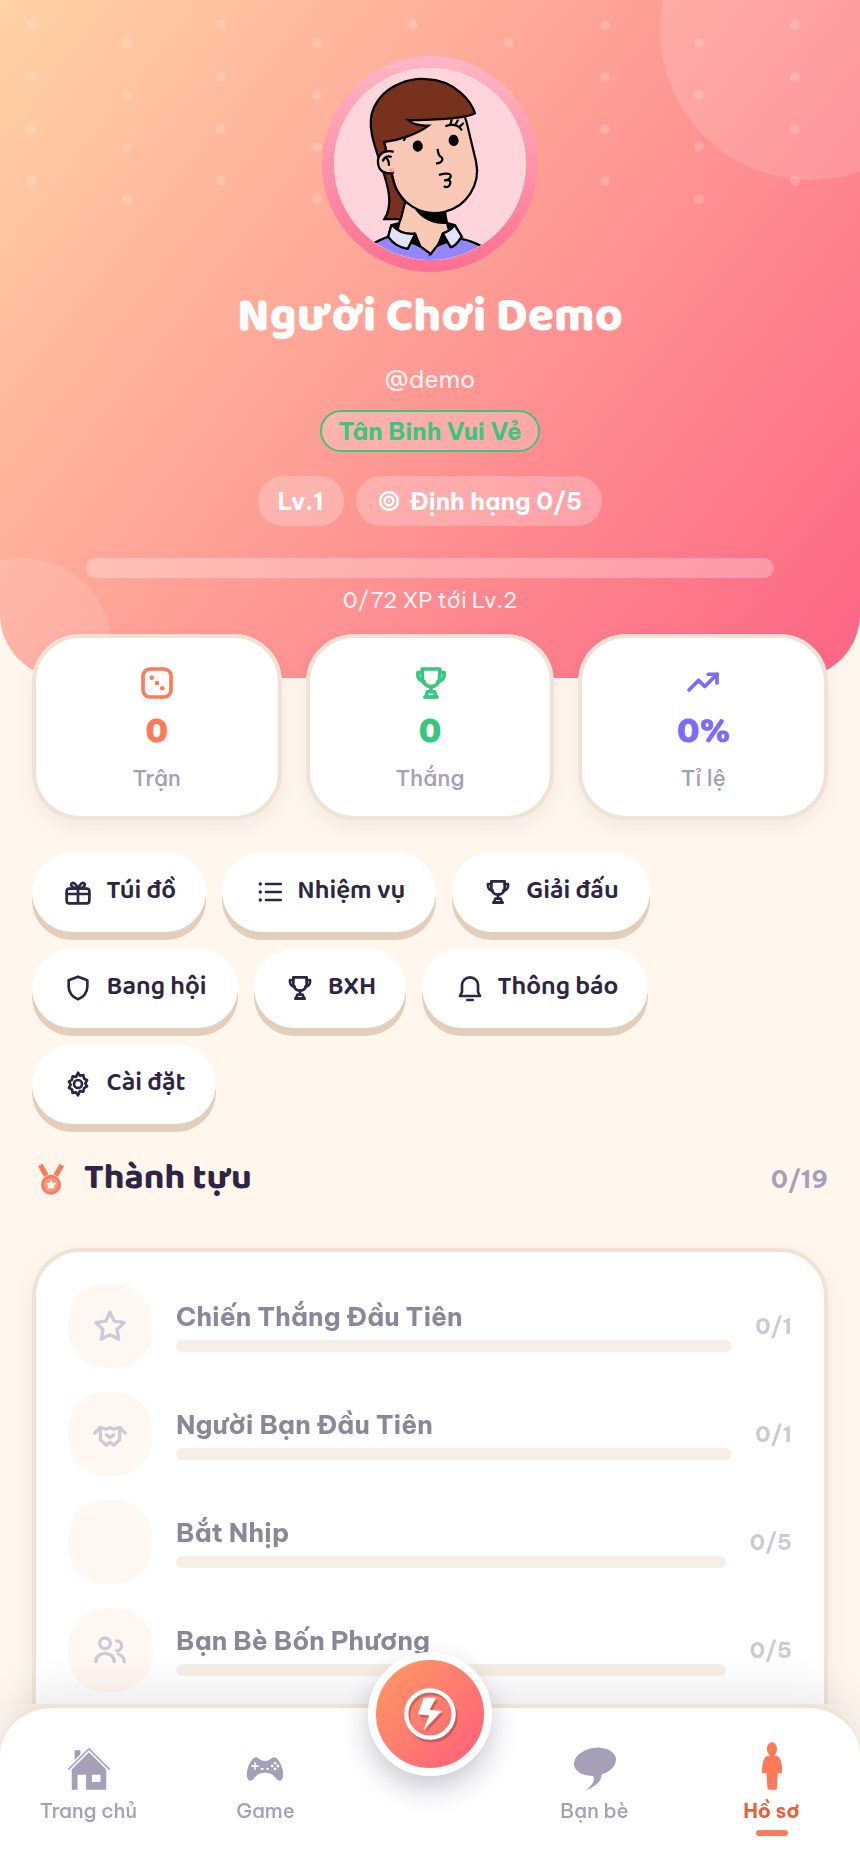
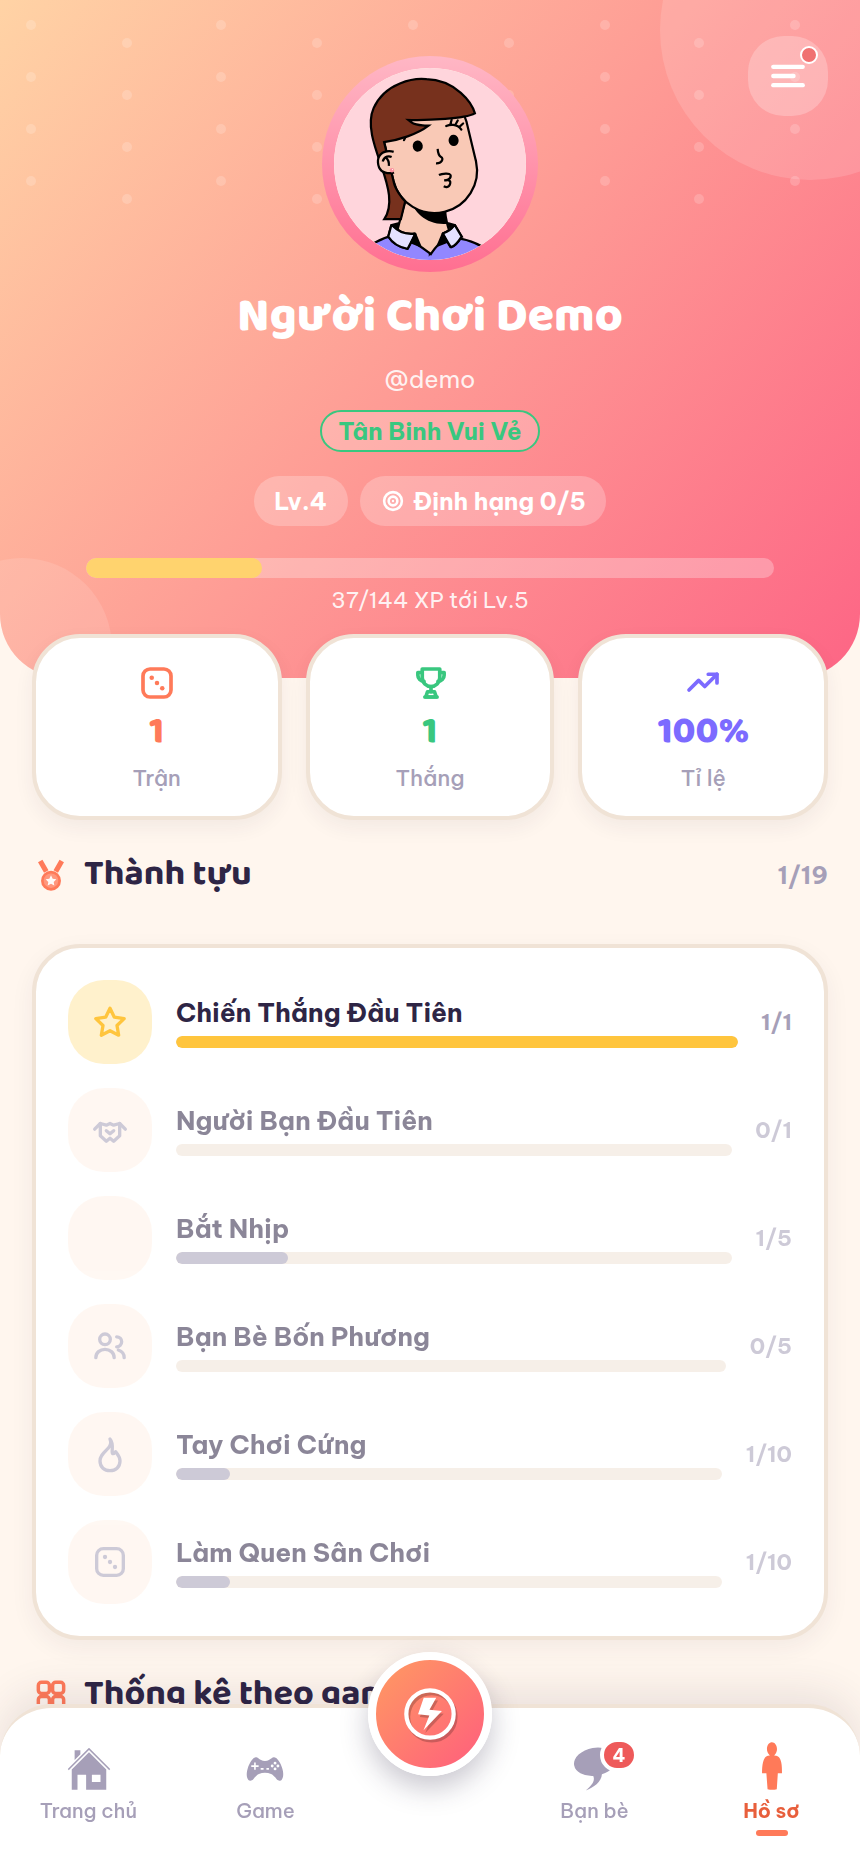
Hồ sơ: gom nút điều hướng vào menu ba vạch
Hồ sơ trước bày bảy nút điều hướng thành một khối lộn xộn ngay giữa trang, đẩy
thống kê và thành tựu xuống dưới. Nay gom hết vào menu trượt từ mép phải, mở
bằng nút ba vạch ở góc trên phần đầu trang.

Menu gồm Túi đồ, Nhiệm vụ, Giải đấu, Bang hội, Bảng xếp hạng, Thông báo, Cài
đặt, và Đăng xuất tách riêng dưới cùng sau một đường kẻ. Nút Đăng xuất cũ ở
cuối trang bỏ đi, không để hai chỗ làm cùng một việc.

Chấm đỏ trên nút ba vạch khi có thông báo chưa đọc, số cụ thể hiện ở dòng Thông
báo trong menu. Chạm ra ngoài là đóng, chọn một mục thì đóng trước rồi mới điều
hướng để menu không nằm đè lên màn mới. Mỗi dòng cao 52px cho thoải mái ngón
tay, và nút ba vạch có accessibilityLabel kèm số thông báo.

Thêm icon 'menu' ba vạch vào bộ icon — vạch giữa ngắn hơn để không lẫn với
icon 'list' đang dùng cho Nhiệm vụ.

diff --git a/apps/mobile/src/components/MenuSheet.tsx b/apps/mobile/src/components/MenuSheet.tsx
@@ -1,0 +1,223 @@
+import React from 'react';
+import { Animated, Easing, Modal, Pressable, ScrollView, useWindowDimensions, View } from 'react-native';
+import { useSafeAreaInsets } from 'react-native-safe-area-context';
+import { Avatar, Txt } from './ui';
+import { Icon, IconName } from './Icon';
+import { PlayerTitle } from './Cosmetic';
+import { C, R, S, softShadow } from '../theme';
+import { useStore } from '../state/store';
+
+/**
+ * Menu trượt từ mép phải.
+ *
+ * Hồ sơ trước đây bày bảy nút điều hướng thành một khối lộn xộn ngay giữa
+ * trang, đẩy phần thống kê và thành tựu xuống dưới. Gom hết vào đây thì trang
+ * hồ sơ trở lại đúng việc của nó, còn lối đi tới các màn khác nằm gọn sau một
+ * nút.
+ */
+export interface MenuItem {
+  label: string;
+  icon: IconName;
+  route: string;
+  /** Số nhỏ nằm bên phải, ví dụ số thông báo chưa đọc. */
+  badge?: number;
+}
+
+export function MenuSheet({
+  visible,
+  items,
+  onClose,
+  onPick,
+  onLogout,
+}: {
+  visible: boolean;
+  items: MenuItem[];
+  onClose: () => void;
+  onPick: (route: string) => void;
+  onLogout?: () => void;
+}) {
+  const insets = useSafeAreaInsets();
+  const { width } = useWindowDimensions();
+  const { profile } = useStore();
+  const panel = Math.min(310, width * 0.82);
+
+  const slide = React.useRef(new Animated.Value(0)).current;
+  React.useEffect(() => {
+    Animated.timing(slide, {
+      toValue: visible ? 1 : 0,
+      duration: visible ? 220 : 160,
+      easing: visible ? Easing.out(Easing.cubic) : Easing.in(Easing.quad),
+      useNativeDriver: true,
+    }).start();
+  }, [visible, slide]);
+
+  return (
+    <Modal visible={visible} transparent animationType="none" onRequestClose={onClose}>
+      {/* Chạm ra ngoài là đóng — thói quen quen thuộc của menu kiểu này */}
+      <Pressable style={{ flex: 1 }} onPress={onClose} accessibilityLabel="Đóng menu">
+        <Animated.View
+          style={{
+            flex: 1,
+            backgroundColor: C.overlay,
+            opacity: slide,
+          }}
+        />
+      </Pressable>
+
+      <Animated.View
+        style={[
+          {
+            position: 'absolute',
+            right: 0,
+            top: 0,
+            bottom: 0,
+            width: panel,
+            backgroundColor: C.surface,
+            borderTopLeftRadius: 26,
+            borderBottomLeftRadius: 26,
+            paddingTop: insets.top + S.lg,
+            paddingBottom: Math.max(insets.bottom, S.md),
+            transform: [{ translateX: slide.interpolate({ inputRange: [0, 1], outputRange: [panel, 0] }) }],
+          },
+          softShadow(0.22, 24, 0),
+        ]}
+      >
+        <View style={{ paddingHorizontal: S.lg, flexDirection: 'row', alignItems: 'center', gap: S.sm }}>
+          <Avatar seed={profile?.avatarSeed} styleName={profile?.avatarStyle} frameId={profile?.frameId} size={44} />
+          <View style={{ flex: 1, gap: 2 }}>
+            <Txt size={15} weight="display" numberOfLines={1}>
+              {profile?.displayName ?? ''}
+            </Txt>
+            <PlayerTitle titleId={profile?.titleId} size={10} />
+          </View>
+          <Pressable onPress={onClose} hitSlop={12} accessibilityLabel="Đóng menu">
+            <Icon name="close" size={20} color={C.inkFaint} />
+          </Pressable>
+        </View>
+
+        <ScrollView contentContainerStyle={{ paddingVertical: S.md }}>
+          {items.map((it) => (
+            <Pressable
+              key={it.route}
+              onPress={() => onPick(it.route)}
+              accessibilityRole="button"
+              style={({ pressed }) => ({
+                flexDirection: 'row',
+                alignItems: 'center',
+                gap: S.md,
+                // Vùng chạm cao 52px, thoải mái cho ngón tay.
+                minHeight: 52,
+                paddingHorizontal: S.lg,
+                backgroundColor: pressed ? C.surfaceAlt : 'transparent',
+              })}
+            >
+              <View
+                style={{
+                  width: 34,
+                  height: 34,
+                  borderRadius: R.md,
+                  backgroundColor: C.surfaceAlt,
+                  alignItems: 'center',
+                  justifyContent: 'center',
+                }}
+              >
+                <Icon name={it.icon} size={18} color={C.inkSoft} strokeWidth={2.2} />
+              </View>
+              <Txt size={14} weight="bold" style={{ flex: 1 }}>
+                {it.label}
+              </Txt>
+              {it.badge ? (
+                <View
+                  style={{
+                    minWidth: 20,
+                    height: 20,
+                    borderRadius: 10,
+                    paddingHorizontal: 6,
+                    backgroundColor: C.danger,
+                    alignItems: 'center',
+                    justifyContent: 'center',
+                  }}
+                >
+                  <Txt size={11} weight="bold" color="#fff">
+                    {it.badge > 99 ? '99+' : it.badge}
+                  </Txt>
+                </View>
+              ) : null}
+              <Icon name="chevron-right" size={16} color={C.inkFaint} />
+            </Pressable>
+          ))}
+        </ScrollView>
+
+        {onLogout ? (
+          <Pressable
+            onPress={onLogout}
+            accessibilityRole="button"
+            style={({ pressed }) => ({
+              flexDirection: 'row',
+              alignItems: 'center',
+              gap: S.md,
+              minHeight: 52,
+              paddingHorizontal: S.lg,
+              borderTopWidth: 2,
+              borderColor: C.line,
+              backgroundColor: pressed ? 'rgba(238,90,90,0.12)' : 'transparent',
+            })}
+          >
+            <View
+              style={{
+                width: 34,
+                height: 34,
+                borderRadius: R.md,
+                backgroundColor: 'rgba(238,90,90,0.12)',
+                alignItems: 'center',
+                justifyContent: 'center',
+              }}
+            >
+              <Icon name="logout" size={18} color={C.danger} strokeWidth={2.2} />
+            </View>
+            <Txt size={14} weight="bold" color={C.danger}>
+              Đăng xuất
+            </Txt>
+          </Pressable>
+        ) : null}
+      </Animated.View>
+    </Modal>
+  );
+}
+
+/** Nút ba vạch mở menu, kèm chấm đỏ khi có thông báo chưa đọc. */
+export function MenuButton({ onPress, badge }: { onPress: () => void; badge?: number }) {
+  return (
+    <Pressable
+      onPress={onPress}
+      hitSlop={10}
+      accessibilityRole="button"
+      accessibilityLabel={badge ? `Mở menu, ${badge} thông báo chưa đọc` : 'Mở menu'}
+      style={{
+        width: 40,
+        height: 40,
+        borderRadius: R.md,
+        backgroundColor: 'rgba(255,255,255,0.24)',
+        alignItems: 'center',
+        justifyContent: 'center',
+      }}
+    >
+      <Icon name="menu" size={22} color="#fff" strokeWidth={2.4} />
+      {badge ? (
+        <View
+          style={{
+            position: 'absolute',
+            right: 5,
+            top: 5,
+            width: 9,
+            height: 9,
+            borderRadius: 5,
+            backgroundColor: C.danger,
+            borderWidth: 1.5,
+            borderColor: '#fff',
+          }}
+        />
+      ) : null}
+    </Pressable>
+  );
+}

diff --git a/apps/mobile/app/(tabs)/profile.tsx b/apps/mobile/app/(tabs)/profile.tsx
@@ -3,12 +3,13 @@ import { Pressable, RefreshControl, ScrollView, Text, View } from 'react-native'
 import { LinearGradient } from 'expo-linear-gradient';
 import { useFocusEffect, useRouter } from 'expo-router';
 import { useSafeAreaInsets } from 'react-native-safe-area-context';
-import { Avatar, Bar, Btn, Card, Chip, Empty, SectionTitle, Txt } from '../../src/components/ui';
+import { Avatar, Bar, Card, Chip, Empty, SectionTitle, Txt } from '../../src/components/ui';
 import { Icon, IconName } from '../../src/components/Icon';
 import { GameIcon, GameIconName } from '../../src/components/GameIcon';
 import { Bubbles, DotPattern } from '../../src/components/decor';
 import { C, HERO_GRADIENT, R, S, softShadow } from '../../src/theme';
 import { PlayerTitle, useBackgroundColors } from '../../src/components/Cosmetic';
+import { MenuButton, MenuItem, MenuSheet } from '../../src/components/MenuSheet';
 import { api } from '../../src/lib/api';
 import { useStore } from '../../src/state/store';
 import { rankArt } from '../../src/lib/rank';
@@ -24,8 +25,20 @@ const GAME_NAMES: Record<string, string> = {
 };
 const LEVEL_CURVE = (level: number) => Math.round(60 * (level - 1) + 12 * Math.pow(level - 1, 2));
 
+/** Mọi lối đi khác từ hồ sơ, gom vào menu ba vạch thay vì rải nút ra trang. */
+const MENU: MenuItem[] = [
+  { label: 'Túi đồ', icon: 'gift', route: '/inventory' },
+  { label: 'Nhiệm vụ', icon: 'list', route: '/quests' },
+  { label: 'Giải đấu', icon: 'trophy', route: '/tournaments' },
+  { label: 'Bang hội', icon: 'shield', route: '/guild' },
+  { label: 'Bảng xếp hạng', icon: 'trend', route: '/leaderboard' },
+  { label: 'Thông báo', icon: 'bell', route: '/notifications' },
+  { label: 'Cài đặt', icon: 'settings', route: '/settings' },
+];
+
 export default function ProfileScreen() {
-  const { profile, logout, refresh } = useStore();
+  const { profile, logout, refresh, unread } = useStore();
+  const [menu, setMenu] = useState(false);
   const router = useRouter();
   const insets = useSafeAreaInsets();
   const [achievements, setAchievements] = useState<any[]>([]);
@@ -68,6 +81,7 @@ export default function ProfileScreen() {
   const unlocked = achievements.filter((a) => a.unlockedAt);
 
   return (
+    <>
     <ScrollView
       style={{ flex: 1, backgroundColor: C.bg }}
       contentContainerStyle={{ paddingBottom: 40 }}
@@ -88,6 +102,9 @@ export default function ProfileScreen() {
         }}
       >
         <DotPattern rows={4} cols={9} />
+        <View style={{ position: 'absolute', right: S.lg, top: Math.max(insets.top, 12) + 6 }}>
+          <MenuButton onPress={() => setMenu(true)} badge={unread} />
+        </View>
         <Bubbles spec={[{ size: 150, right: -50, top: -60, alpha: 0.14 }, { size: 90, left: -34, bottom: -30, alpha: 0.12 }]} />
         <Avatar seed={profile.avatarSeed} styleName={profile.avatarStyle} frameId={profile.frameId} size={96} ring="rgba(255,255,255,0.45)" />
         <Txt size={24} weight="display" color="#fff">
@@ -126,19 +143,7 @@ export default function ProfileScreen() {
         <Stat label="Tỉ lệ" value={`${winRate}%`} icon="trend" tone={C.secondary} />
       </View>
 
-      <View style={{ padding: S.lg, gap: S.md }}>
-        <View style={{ flexDirection: 'row', gap: S.sm, flexWrap: 'wrap' }}>
-          <Btn label="Túi đồ" icon="gift" tone="ghost" size="sm" onPress={() => router.push('/inventory')} />
-          <Btn label="Nhiệm vụ" icon="list" tone="ghost" size="sm" onPress={() => router.push('/quests')} />
-          <Btn label="Giải đấu" icon="trophy" tone="ghost" size="sm" onPress={() => router.push('/tournaments')} />
-          <Btn label="Bang hội" icon="shield" tone="ghost" size="sm" onPress={() => router.push('/guild')} />
-          <Btn label="BXH" icon="trophy" tone="ghost" size="sm" onPress={() => router.push('/leaderboard')} />
-          <Btn label="Thông báo" icon="bell" tone="ghost" size="sm" onPress={() => router.push('/notifications')} />
-          <Btn label="Cài đặt" icon="settings" tone="ghost" size="sm" onPress={() => router.push('/settings')} />
-        </View>
-      </View>
-
-      <View style={{ paddingHorizontal: S.lg, gap: S.md }}>
+      <View style={{ paddingHorizontal: S.lg, paddingTop: S.lg, gap: S.md }}>
         <SectionTitle title="Thành tựu" icon="medal" action={<Txt size={12} weight="bold" color={C.inkFaint}>{unlocked.length}/{achievements.length}</Txt>} />
         <Card style={{ gap: S.md }}>
           {achievements.length ? (
@@ -212,10 +217,23 @@ export default function ProfileScreen() {
         </Card>
       </View>
 
-      <View style={{ padding: S.lg }}>
-        <Btn label="Đăng xuất" icon="logout" tone="danger" full onPress={logout} />
-      </View>
     </ScrollView>
+
+      <MenuSheet
+        visible={menu}
+        items={MENU}
+        onClose={() => setMenu(false)}
+        onPick={(route) => {
+          // Đóng trước rồi mới đi, không thì menu còn nằm đè lên màn mới.
+          setMenu(false);
+          router.push(route as any);
+        }}
+        onLogout={() => {
+          setMenu(false);
+          logout();
+        }}
+      />
+    </>
   );
 }
 

diff --git a/apps/mobile/src/components/Icon.tsx b/apps/mobile/src/components/Icon.tsx
@@ -36,6 +36,7 @@ export type IconName =
   | 'shield'
   | 'trend'
   | 'list'
+  | 'menu'
   | 'grid'
   | 'door'
   | 'key'
@@ -247,6 +248,15 @@ function render(name: IconName, p: any, color: string) {
         <>
           <Polyline points="4 16 9.5 10.5 13 14 20 7" {...p} />
           <Polyline points="15 7 20 7 20 12" {...p} />
+        </>
+      );
+    case 'menu':
+      // Ba vạch ngang, vạch giữa ngắn hơn cho ra dáng nút menu chứ không lẫn với 'list'.
+      return (
+        <>
+          <Path d="M4 7h16" {...p} />
+          <Path d="M4 12h11" {...p} />
+          <Path d="M4 17h16" {...p} />
         </>
       );
     case 'list':

diff --git a/README.md b/README.md
@@ -32,13 +32,13 @@ server-authoritative, economy có audit, admin panel và analytics.
 |---|---|---|
 | ![](docs/screenshots/50-guild-find.png) | ![](docs/screenshots/52-guild-home.png) | ![](docs/screenshots/53-guild-chat.png) |
 
-| Hồ sơ | Nhiệm vụ | Túi đồ |
+| Hồ sơ | Menu ba vạch | Túi đồ |
 |---|---|---|
-| ![](docs/screenshots/06-profile.png) | ![](docs/screenshots/07-quests.png) | ![](docs/screenshots/05-inventory.png) |
+| ![](docs/screenshots/06-profile.png) | ![](docs/screenshots/06b-profile-menu.png) | ![](docs/screenshots/05-inventory.png) |
 
-| Bảng xếp hạng | Thông báo | Cài đặt |
+| Nhiệm vụ | Bảng xếp hạng | Thông báo |
 |---|---|---|
-| ![](docs/screenshots/08-leaderboard.png) | ![](docs/screenshots/09-notifications.png) | ![](docs/screenshots/10-settings.png) |
+| ![](docs/screenshots/07-quests.png) | ![](docs/screenshots/08-leaderboard.png) | ![](docs/screenshots/09-notifications.png) |
 
 ### 7 mini game
 
